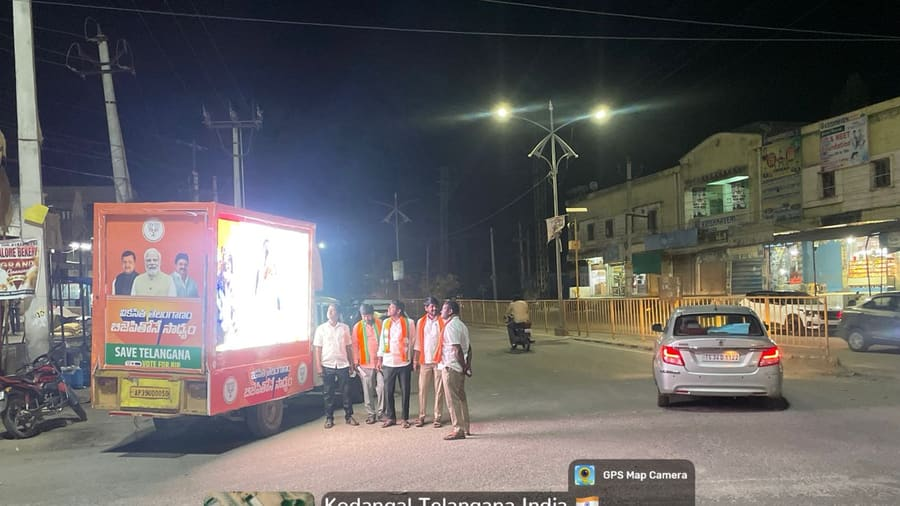
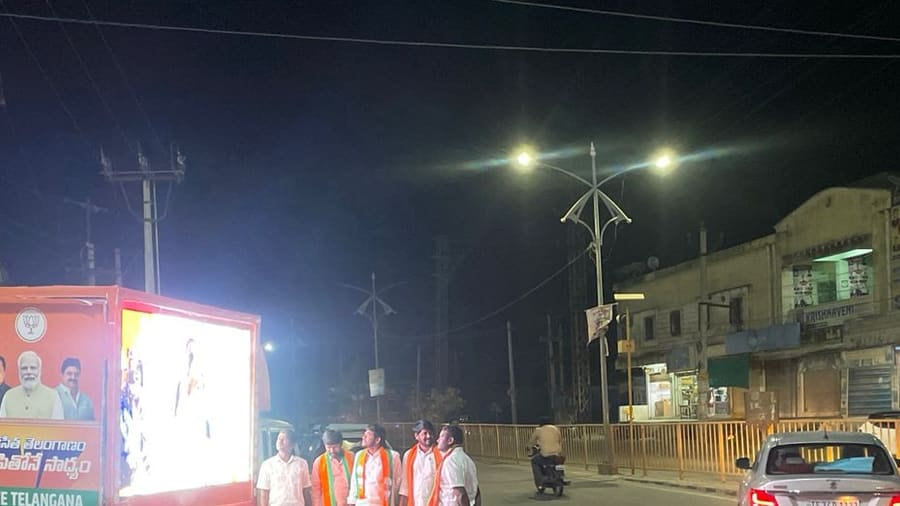
Review every card photo properly, and drop the six that failed
I pushed 83 card photos having actually looked at 24 of them. This is the
rest of that review, and six did not survive it.

Rejected, reverted to placeholder, files deleted:
  35   TVS Motor: Building Wraps   no TVS branding anywhere in frame
  40   GRT Jewellers: Retail       a street of coaching-centre hoardings, no GRT
  96   GRT Jewellers: RWA          an empty canopy, nothing happening
  99   Coca-Cola: Apartment        a bare apartment facade, no branding at all
  101  Kedia Rice                  a blank canopy roof against a wall
  103  Porter                      two men in close-up, no Porter branding

Three had a burned-in stamp survive the first trim and were recut deeper:
Skipper Metzer at 30%, TVS Mega Loan Mela at 38%, BJP Municipal at 42%.

Coverage is now 77 of 117 campaigns, down from the 83 I claimed, and all 77
have been looked at. No orphan files, no broken references.

scripts/review-rejects.mjs records which frames were rejected and why.

diff --git a/src/data/content.ts b/src/data/content.ts
@@ -566,7 +566,7 @@ export const caseStudies: CaseStudy[] = [
     years: "2024–2026",
     description:
       "Sustained out-of-home presence across Telangana and Andhra Pradesh: Charminar building wraps, 60+ hoardings, 50 new building sites, wall wraps, Dasara hoardings and Punjab digital walls.",
-    image: "/images/work/card-35.jpg",
+    placeholder: true,
     category: "ooh-branding",
   },
   {
@@ -611,7 +611,7 @@ export const caseStudies: CaseStudy[] = [
     years: "2025",
     description:
       "Store-front and in-shop branding across five Hyderabad stores plus Narasaraopet and Tadepalligudem outlets: Kukatpally, Chandanagar, Somajiguda, AS Rao Nagar and Nizamabad.",
-    image: "/images/work/card-40.jpg",
+    placeholder: true,
     category: "ooh-branding",
   },
   {
@@ -1146,7 +1146,7 @@ export const caseStudies: CaseStudy[] = [
     years: "2026",
     description:
       "Residential community activations bringing GRT's collections directly to household audiences.",
-    image: "/images/work/card-96.jpg",
+    placeholder: true,
     category: "experiential-marketing",
   },
   {
@@ -1173,7 +1173,7 @@ export const caseStudies: CaseStudy[] = [
     years: "2024",
     description:
       "Apartment-complex sampling and engagement programme for Coca-Cola across Hyderabad residential clusters.",
-    image: "/images/work/card-99.jpg",
+    placeholder: true,
     category: "experiential-marketing",
   },
   {
@@ -1191,7 +1191,7 @@ export const caseStudies: CaseStudy[] = [
     years: "2025",
     description:
       "Residential community sampling and engagement for Kedia's rice portfolio.",
-    image: "/images/work/card-101.jpg",
+    placeholder: true,
     category: "experiential-marketing",
   },
   {
@@ -1209,7 +1209,7 @@ export const caseStudies: CaseStudy[] = [
     years: "2025",
     description:
       "Community activation introducing Porter's on-demand logistics service to household users.",
-    image: "/images/work/card-103.jpg",
+    placeholder: true,
     category: "experiential-marketing",
   },
   {
